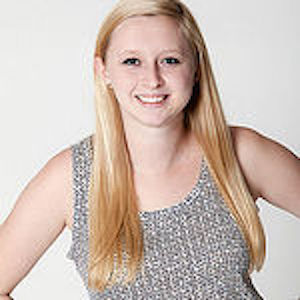
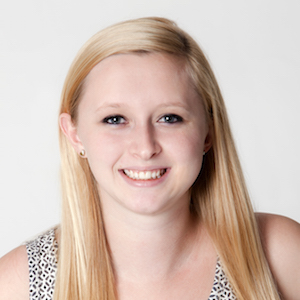
Changed photos on quotes page

diff --git a/public/index.html b/public/index.html
@@ -61,58 +61,38 @@
         <div class="row">
             <div class="col-md-6">
                 <div class="text-center">
-                    <a href="">
-                        <img style="width:150px;" class="img-circle img-responsive imgBorder img-thumbnail" src="img/james.png">
-                    </a>
+                    <img style="width:150px;" class="img-circle img-responsive imgBorder img-thumbnail" src="img/james.png">
                     <h3 class="text-center"></h3>
+                    <h3 class="text-center quote">"I love being able to save data on roadtrips by calling in to my favorite podcasts!"</h3>
+                    <h3 class="text-center">- James D</h3>
                 </div>
             </div>
             <div class="col-md-offset-6">
                 <div class="text-center">
-                    <a href="">
-                        <img style="width:150px;" class="img-circle img-responsive imgBorder img-thumbnail" src="img/emily.jpg">
-                    </a>
+                    <img style="width:150px;" class="img-circle img-responsive imgBorder img-thumbnail" src="img/emily.jpg">
                     <h3 class="text-center"></h3>
+                    <h3 class="text-center quote">"Having podcasts on speed dial is awesome :)"</h3>
+                    <h3 class="text-center">- Emily N</h3>
                 </div>
             </div>
-        </div>
-        <div class="row">
-          <div class="col-md-6">
-            <h3 class="text-center quote">"I love being able to save data on roadtrips by calling in to my favorite podcasts!"</h3>
-            <h3 class="text-center">- James D</h3>
-          </div>
-          <div class="col-md-offset-6">
-            <h3 class="text-center quote">"Having podcasts on speed dial is awesome :)"</h3>
-            <h3 class="text-center">- Emily N</h3>
-          </div>
         </div>
         <div class="row">
             <div class="col-md-6">
                 <div class="text-center">
-                    <a href="">
-                        <img style="width:150px;" class="img-circle img-responsive imgBorder img-thumbnail" src="img/ady.jpg">
-                    </a>
+                    <img style="width:150px;" class="img-circle img-responsive imgBorder img-thumbnail" src="img/ady.jpg">
                     <h3 class="text-center"></h3>
+                    <h3 class="text-center quote">"I can't get 3G at work so this is a great alternative for me."</h3>
+                    <h3 class="text-center">- Ady D</h3>
                 </div>
             </div>
             <div class="col-md-offset-6">
                 <div class="text-center">
-                    <a href="">
-                        <img style="width:150px;" class="img-circle img-responsive imgBorder img-thumbnail" src="img/nicko.jpg">
-                    </a>
+                    <img style="width:150px;" class="img-circle img-responsive imgBorder img-thumbnail" src="img/nicko.jpg">
                     <h3 class="text-center"></h3>
+                    <h3 class="text-center quote">"I still don't have a smart phone, so it's awesome to finally be able to listen to podcasts."</h3>
+                    <h3 class="text-center">- Nicko G</h3>
                 </div>
             </div>
-        </div>
-        <div class="row">
-          <div class="col-md-6">
-            <h3 class="text-center quote">"I can't get 3G at work so this is a great alternative for me."</h3>
-            <h3 class="text-center">- Ady D</h3>
-          </div>
-          <div class="col-md-offset-6">
-            <h3 class="text-center quote">"I still don't have a smart phone, so it's awesome to finally be able to listen to podcasts."</h3>
-            <h3 class="text-center">- Nicko G</h3>
-          </div>
         </div>
     </div>
     <!--/container-->

diff --git a/public/css/styles.css b/public/css/styles.css
@@ -224,8 +224,8 @@ section {
 
 .imgBorder {
 	border-color: #ff6600;
-	border-style: double;
-	border-width: thick;
+	border-style: solid;
+	border-width: 2px;
 }
 
 footer {
